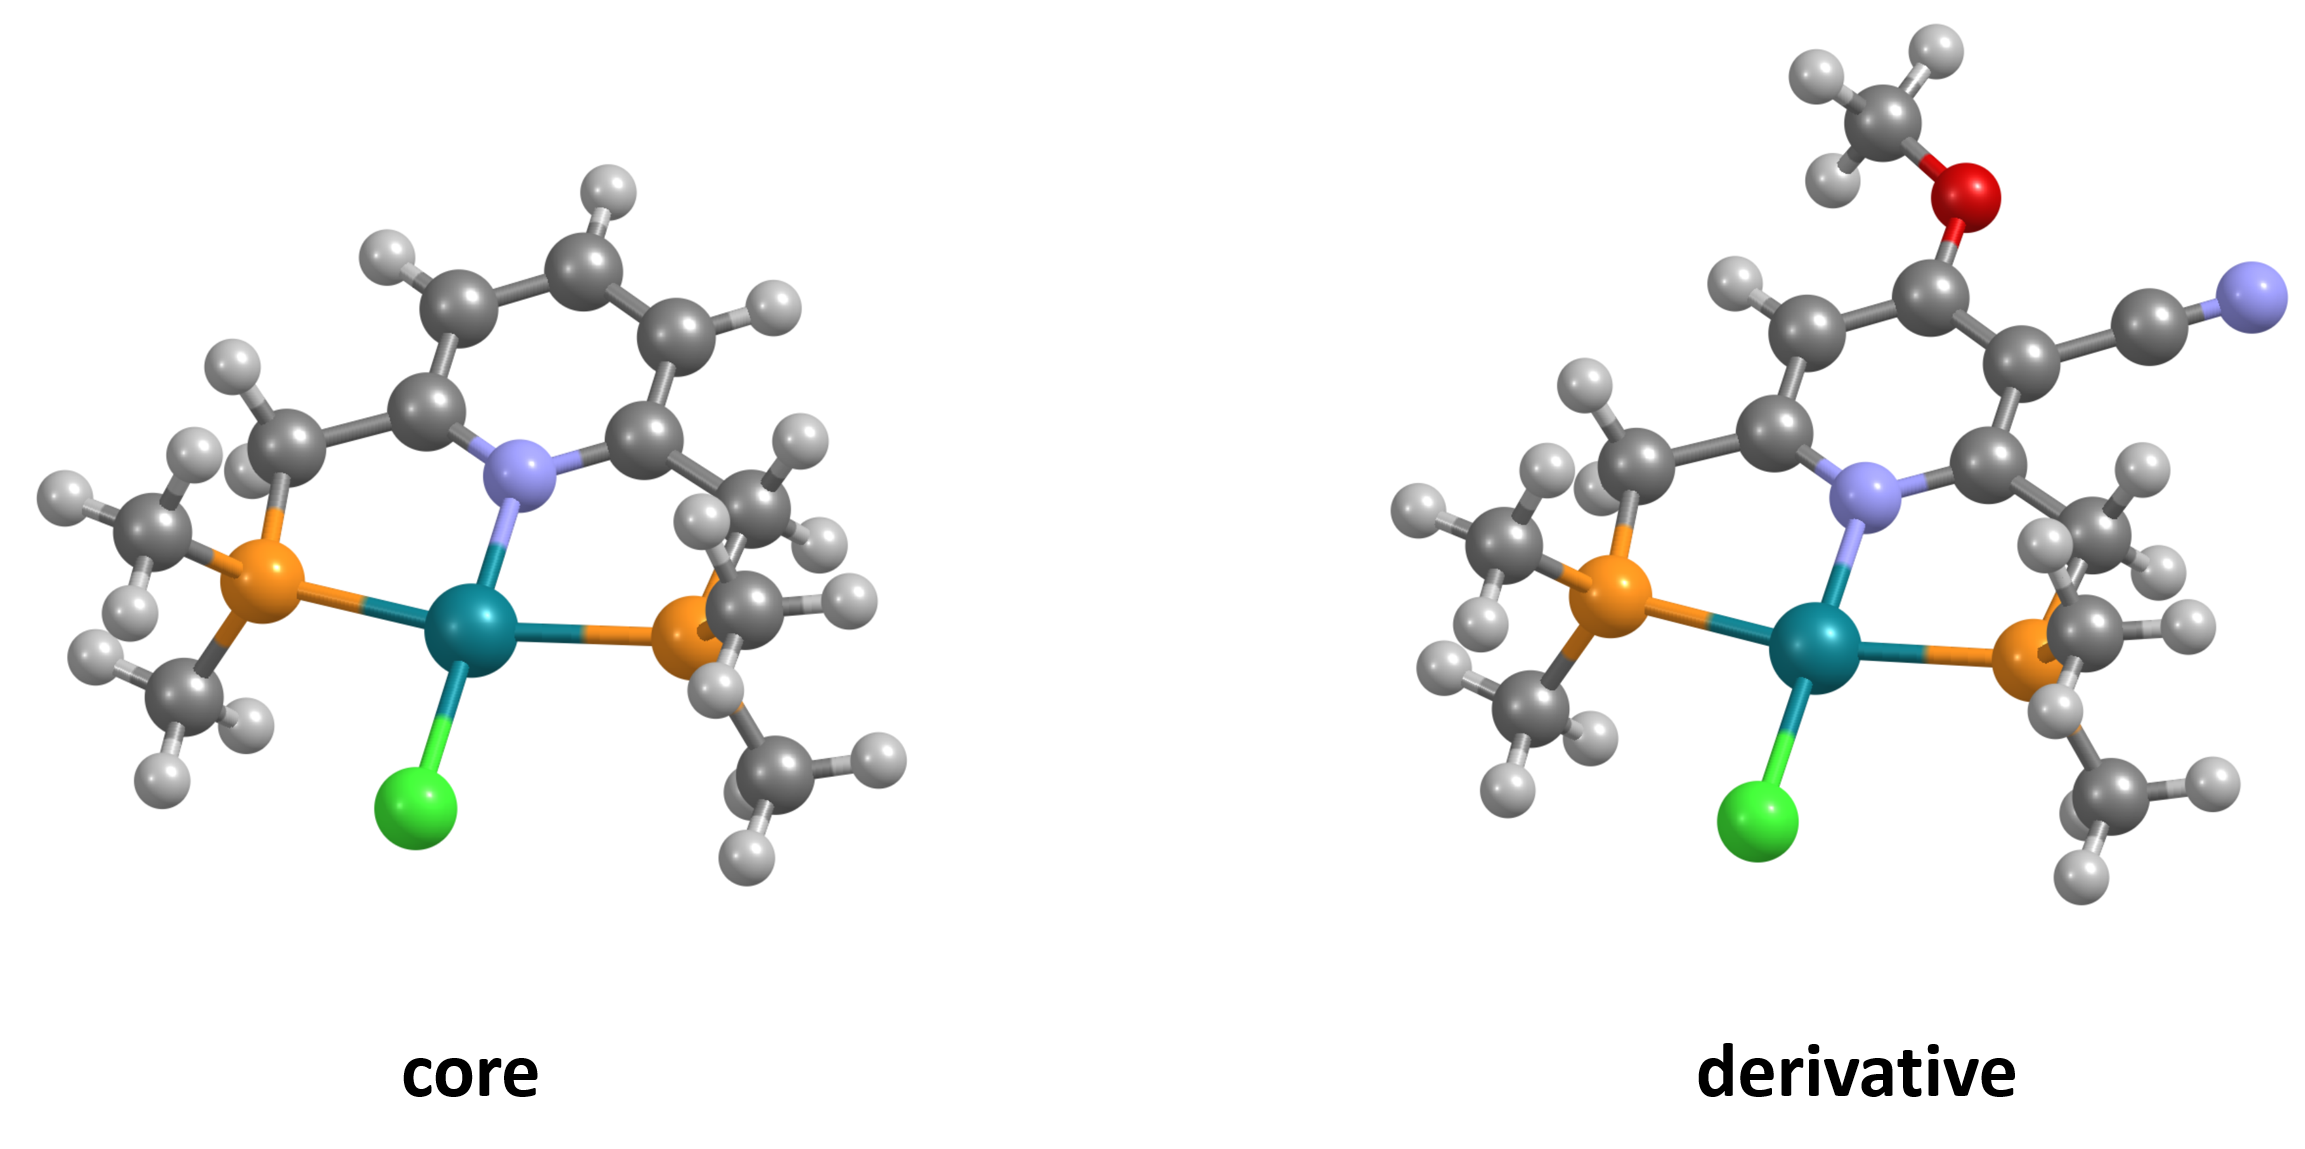
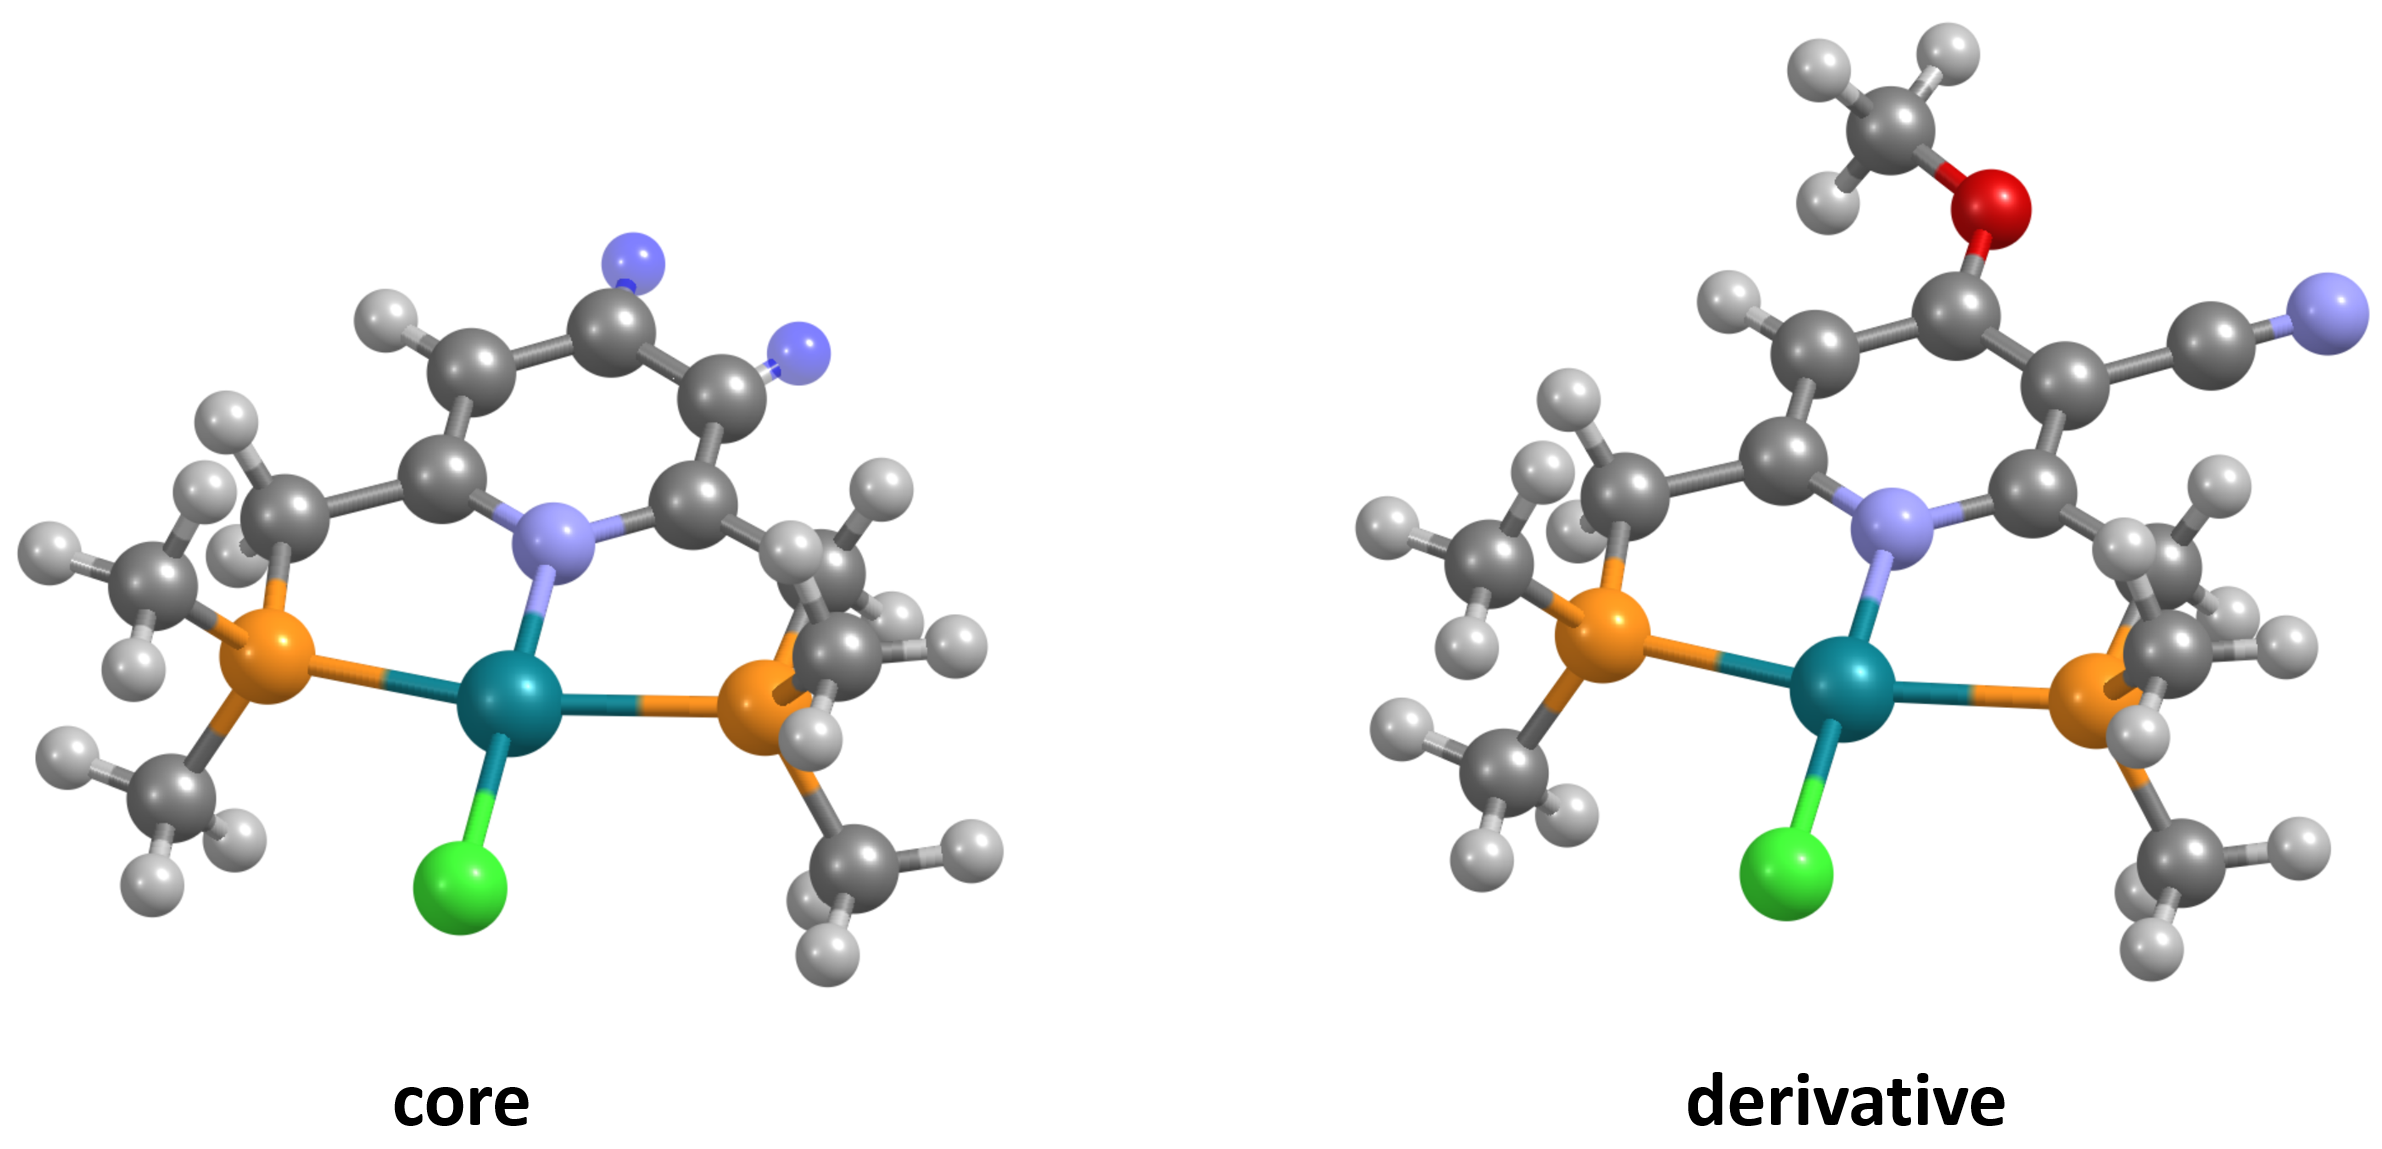
Fix constrained embedding description in README

diff --git a/README.md b/README.md
@@ -116,13 +116,17 @@ Here's the result (aliphatic hydrogens removed for clarity):
 
 ### Introduction of substituents
 
-Imagine, that you need to generate a lot of complexes with the same core and different substituents. Generation of all structures will result in serious time loss due to the QM geometry optimization. There are more tricky way. First, you need to generate atomic coordinates for the core (most simple) structure:
+Imagine, that you need to generate a lot of complexes with the same core and different substituents. Generation of all structures will result in serious time loss due to the QM geometry optimization. There are more tricky way. First, you need to draw ligands containing dummy atoms (or hydrogens) with isotopic labels equal to the number of substituent (can be encoded as *R1*, *R2*, etc. in Marvin Sketch):
+
+<img src="manual/pics/README/subs.png" width="50%"/>
+
+After that, you need to generate atomic coordinates for the core structure:
 
 ```python
 import mace
 
 # core
-ligands = ['C[P:3](C)CC1=CC=CC(C[P:1](C)C)=[N:2]1 |c:6,12|', '[Cl-:4]']
+ligands = ['C[P:3](C)CC1=CC([*])=C([*])C(C[P:1](C)C)=[N:2]1 |$;;;;;;;_R1;;_R2;;;;;;$,c:14,t:4,7|', '[Cl-:4]']
 CA = '[Rh+]'
 geom = 'SP'
 core = mace.ComplexFromLigands(ligands, CA, geom)
@@ -132,38 +136,20 @@ core.AddConformer()
 core.ToXYZ('core.xyz', confId = 'min')
 ```
 
-Next, we need to generate a derivative of the core structure using `mace.AddSubsToMol` function. This function takes as input the core molecule (RDKit Mol object) and the dictionary of substituents (also RDKit Mol objects). The core molecule must contain dummy atoms with isotopic labels equal to the number of substituent (can be encoded as *R1*, *R2*, etc. in Marvin Sketch):
-
-<img src="manual/pics/README/subs.png" width="50%"/>
-
-Keys in substituents dictionary must be encoded as `'R1'`, where number after ***R*** letter denotes substituent's number. RDKit Mol objects corresponding to the substituents must contain exactly one dummy atom. The `mace.AddSubsToMol` function removes dummies and connects the core with the substituents:
+Next, we need to substitute dummies using the `mace.AddSubsToMol` function:
 
 ```python
-# main ligand
-L = mace.MolFromSmiles('C[P:3](C)CC1=CC([*])=C([*])C(C[P:1](C)C)=[N:2]1 |$;;;;;;;_R1;;_R2;;;;;;$,c:14,t:4,7|')
 # substituents
 subs = {'R1': mace.MolFromSmiles('[*]OC'),
         'R2': mace.MolFromSmiles('[*]C#N')}
 # add subs
-L = mace.AddSubsToMol(L, subs)
-L
+X = mace.ComplexFromMol(mace.AddSubsToMol(core.mol, subs), core._geom)
 ```
 
-<img src="manual/pics/README/subst_ligand.png" width="50%"/>
-
-Next we initialize new complex:
+And generate atomic coordinates using constrained embedding using `AddConstrainedConformer` method:
 
 ```python
-ligands = [mace.MolToSmiles(L), '[Cl-:4]']
-CA = '[Rh+]'
-geom = 'SP'
-X = mace.ComplexFromLigands(ligands, CA, geom)
-```
-
-And generate atomic coordinates using constrained embedding:
-
-```python
-conf_idx = X.AddConstrainedConformer(core, confId = 0)
+conf_idx = X.AddConstrainedConformer(core)
 X.ToXYZ('X.xyz', confId = 'min')
 ```
 
